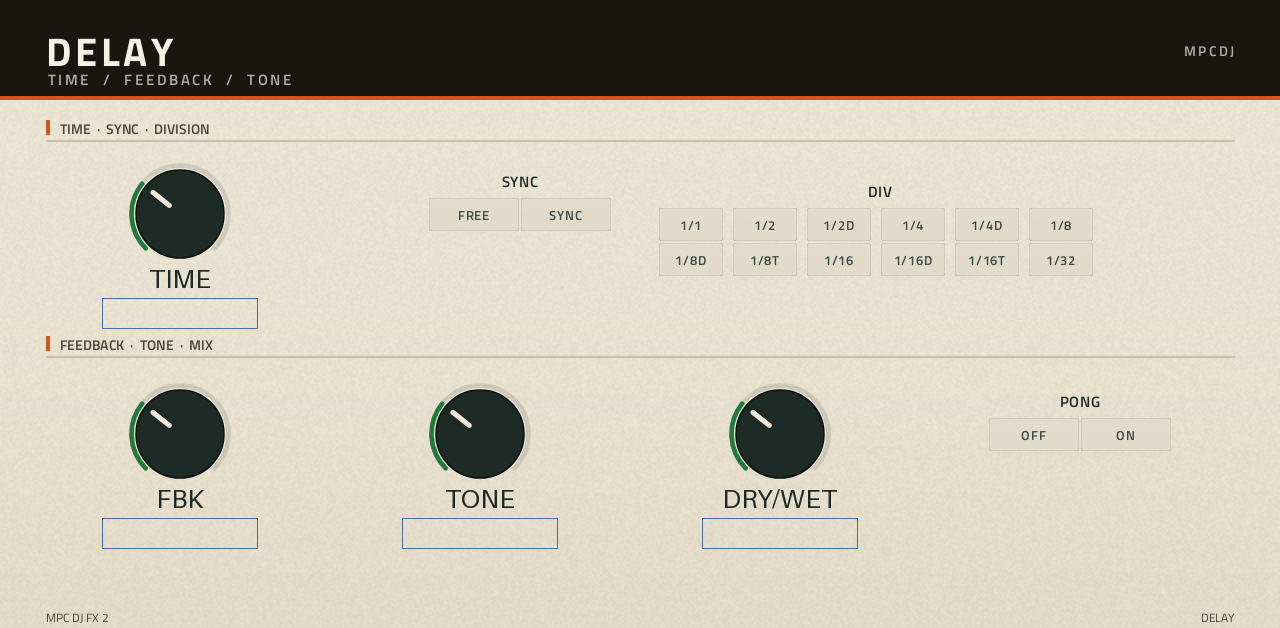
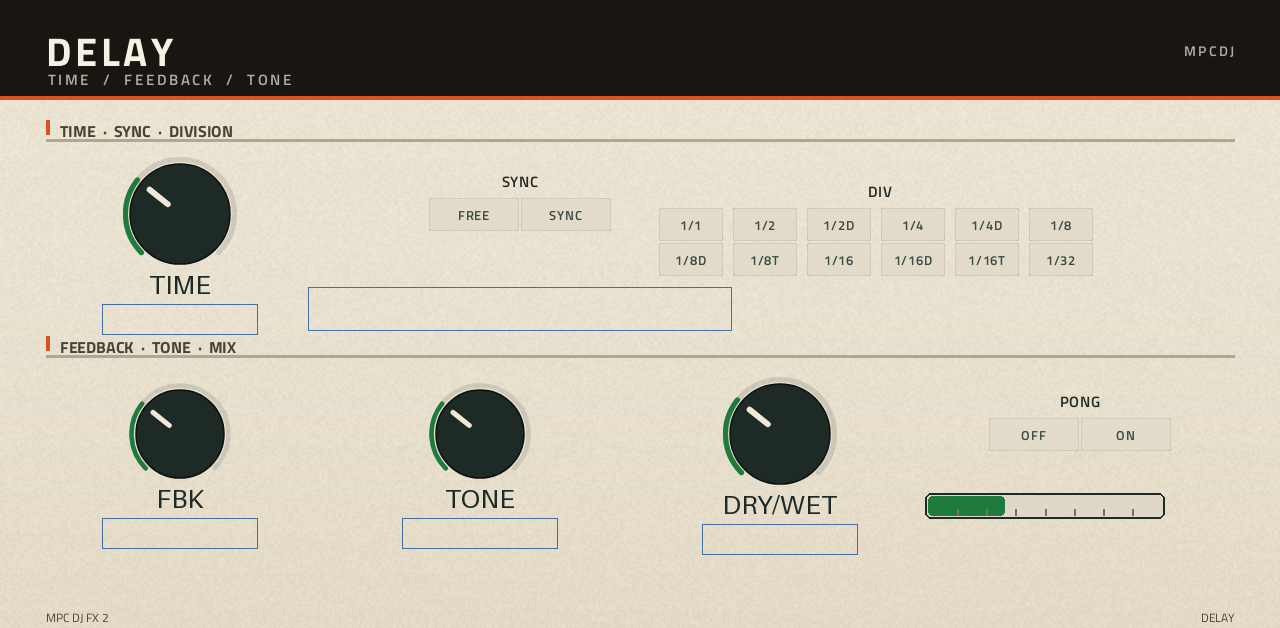
2.1.0: 20 Hz meters, 81-frame VU, live text, push reporting
- VU 24 -> 81 frames, published from a 20 Hz render tick
- stage meters for delay tail / reverb tail / repeat activity
- meters report via mpc_engine_changed() (~23 ms) instead of the 100 ms poll
- live text: delay time, output dBFS
- skin: stronger rules and captions, larger primary knobs

diff --git a/vst/src/djfx_engine.c b/vst/src/djfx_engine.c
@@ -28,7 +28,8 @@
 
 #define MAXFRAMES 128
 #define VALLEN 40
-#define VU_STEPS 24
+#define VU_STEPS 81   /* 81 frames = 0.6 dB per step on a 48 dB scale (was 24 = 2.09 dB) */
+#define MET_STEPS 41   /* per-page stage meters: 1.2 dB per step */
 #define VU_FLOOR_DB (-48.0f)
 
 static const char *const KEYS[] = {
@@ -41,7 +42,8 @@ static const char *const KEYS[] = {
     "fl_rate", "fl_depth", "fl_fbk", "fl_mix",
     "gr_rate", "gr_time", "gr_spray", "gr_mix",
     "mac_lo", "mac_mid", "mac_hi", "mac_lpf", "mac_glitch", "mac_verb", "mac_fade", "mac_fill",
-    "output_gain", "limiter", "panic", "vu", "mix"
+    "output_gain", "limiter", "panic", "vu", "mix",
+    "dly_tail", "verb_tail", "rep_act", "dly_show", "out_show"
 };
 #define NKEYS ((int)(sizeof KEYS / sizeof KEYS[0]))
 _Static_assert(sizeof KEYS / sizeof KEYS[0] == NPARAMS,
@@ -61,7 +63,8 @@ enum {
     P_FL_RATE, P_FL_DEPTH, P_FL_FBK, P_FL_MIX,
     P_GR_RATE, P_GR_TIME, P_GR_SPRAY, P_GR_MIX,
     P_MAC_LO, P_MAC_MID, P_MAC_HI, P_MAC_LPF, P_MAC_GLITCH, P_MAC_VERB, P_MAC_FADE, P_MAC_FILL,
-    P_OUTPUT_GAIN, P_LIMITER, P_PANIC, P_VU, P_MIX
+    P_OUTPUT_GAIN, P_LIMITER, P_PANIC, P_VU, P_MIX,
+    P_DLY_TAIL, P_VERB_TAIL, P_REP_ACT, P_DLY_SHOW, P_OUT_SHOW
 };
 
 typedef struct {
@@ -80,7 +83,11 @@ typedef struct {
     float out_gain;         /* linear */
     unsigned display_rev;   /* HAS_DISPLAY_REV */
     int   vu_step;          /* last reported VU step (-1 = never) */
+    int   met_step[3];      /* last reported stage steps: delay, verb, repeat (-1 = never) */
+    int   met_tick;         /* samples since the last 20 Hz meter tick */
+    unsigned long long pending;  /* meter keys waiting for mpc_engine_changed() */
     float vu_env;
+    float dly_env, verb_env, rep_env;
     int   panic_cd;         /* panic debounce, in samples */
     int   panic_state;      /* panic flush staged across blocks (0 = idle, 1..3 = stage) */
     char  val[NKEYS][VALLEN];
@@ -491,6 +498,7 @@ static void *create(const char *data_dir)
     c->mix = 0.35f;
     c->out_gain = 1.0f;
     c->vu_step = -1;
+    for (int k = 0; k < 3; k++) c->met_step[k] = -1;
     build_dsp(c);
     if (!dsp_ok(c)) { free_dsp(c); free(c); return NULL; }
     for (int i = 0; i < NKEYS; i++) {
@@ -541,20 +549,19 @@ static int get_param(void *inst, const char *key, char *buf, int buf_len)
         }
         return p;
     }
+    /* live text (params.json "display": "string"): polled every 100 ms, no numeric value */
+    if (!strcmp(key, "dly_show")) return get_param(c, "dly_time_display", buf, buf_len);
+    if (!strcmp(key, "out_show")) {
+        const float db = 20.0f * log10f(c->vu_env + 1e-6f);
+        snprintf(buf, (size_t)buf_len, "%+.1f dBFS", db);
+        return 1;
+    }
     const int i = key_idx(key);
     if (i < 0) {
         if (!strcmp(key, "display_rev")) {
-            /* the live VU is display-only: derive its step here (on the poll) and count it into
-             * display_rev so the host re-reads the value (DISPLAY_REV_NO_UPDATE: moved values only) */
-            int s = (int)lrintf((20.0f * log10f(c->vu_env + 1e-6f) - VU_FLOOR_DB)
-                                / (0.0f - VU_FLOOR_DB) * (float)(VU_STEPS - 1));
-            if (s < 0) s = 0;
-            if (s >= VU_STEPS) s = VU_STEPS - 1;
-            if (s != c->vu_step) {
-                c->vu_step = s;
-                snprintf(c->val[P_VU], VALLEN, "%d", s);
-                c->display_rev++;
-            }
+            /* the meters are published from the 20 Hz tick in process() (2026-10-26): deriving them
+             * here capped the needle at the host's 100 ms readout poll and coupled the number of
+             * frames to the poll. display_rev just counts what changed since the last poll. */
             snprintf(buf, (size_t)buf_len, "%u", c->display_rev);
             return 1;
         }
@@ -622,11 +629,29 @@ static void process(void *inst, const int16_t *in_lr, int16_t *out_lr, int frame
     iso_process(c->iso, c->l, c->r, frames);
     dub_filter_process(c->djf, c->l, c->r, frames);
     repeat_process(c->rep, c->l, c->r, frames);
+    float rep_pk = 0.0f;
+    for (int i = 0; i < frames; i++) {
+        const float a = fabsf(c->l[i]), b = fabsf(c->r[i]);
+        if (a > rep_pk) rep_pk = a;
+        if (b > rep_pk) rep_pk = b;
+    }
 
     /* wet path: delay (wet only) -> VERB high-pass -> reverb -> flanger */
     dub_delay_process(c->delay, c->l, c->r, c->w1, c->w2, frames);
+    float dly_pk = 0.0f;
+    for (int i = 0; i < frames; i++) {
+        const float a = fabsf(c->w1[i]), b = fabsf(c->w2[i]);
+        if (a > dly_pk) dly_pk = a;
+        if (b > dly_pk) dly_pk = b;
+    }
     dub_filter_process(c->vhf, c->w1, c->w2, frames);
     dub_reverb_process(c->rv, c->w1, c->w2, frames);
+    float verb_pk = 0.0f;
+    for (int i = 0; i < frames; i++) {
+        const float a = fabsf(c->w1[i]), b = fabsf(c->w2[i]);
+        if (a > verb_pk) verb_pk = a;
+        if (b > verb_pk) verb_pk = b;
+    }
     flanger_process(c->fl, c->w1, c->w2, frames);
     grain_process(c->gr, c->w1, c->w2, frames);
 
@@ -664,8 +689,36 @@ static void process(void *inst, const int16_t *in_lr, int16_t *out_lr, int frame
         out_lr[2 * i + 1] = (int16_t)b;
     }
 
-    /* master VU: peak with a slow release (sampled by the 100 ms display poll) */
-    c->vu_env = pk > c->vu_env ? pk : c->vu_env * 0.9995f;
+    /* master VU + stage meters: peak with a slow release */
+    c->vu_env   = pk      > c->vu_env   ? pk      : c->vu_env   * 0.9995f;
+    c->dly_env  = dly_pk  > c->dly_env  ? dly_pk  : c->dly_env  * 0.9995f;
+    c->verb_env = verb_pk > c->verb_env ? verb_pk : c->verb_env * 0.9995f;
+    c->rep_env  = rep_pk  > c->rep_env  ? rep_pk  : c->rep_env  * 0.9995f;
+
+    /* 20 Hz: publish VU + the three stage meters. The host re-reads a value when display_rev changed
+     * (DISPLAY_REV_NO_UPDATE), so one counter serves all four. */
+    c->met_tick += frames;
+    if (c->met_tick >= (int)(c->fs / 20.0f)) {
+        c->met_tick = 0;
+        struct { float env; int *step; int idx; int top; } m[4] = {
+            { c->vu_env,   &c->vu_step,      P_VU,        VU_STEPS  },
+            { c->dly_env,  &c->met_step[0],  P_DLY_TAIL,  MET_STEPS },
+            { c->verb_env, &c->met_step[1],  P_VERB_TAIL, MET_STEPS },
+            { c->rep_env,  &c->met_step[2],  P_REP_ACT,   MET_STEPS },
+        };
+        for (int k = 0; k < 4; k++) {
+            const int top = m[k].top;
+            int st = (int)lrintf((20.0f * log10f(m[k].env + 1e-6f) - VU_FLOOR_DB)
+                                 / (0.0f - VU_FLOOR_DB) * (float)(top - 1));
+            if (st < 0) st = 0;
+            if (st >= top) st = top - 1;
+            if (st != *m[k].step) {
+                *m[k].step = st;
+                snprintf(c->val[m[k].idx], VALLEN, "%d", st);
+                c->pending |= 1ull << m[k].idx;   /* wrapper reports it (engine.h hook), no 100 ms poll */
+            }
+        }
+    }
     if (c->panic_cd > 0) { c->panic_cd -= frames; if (c->panic_cd < 0) c->panic_cd = 0; }
 }
 
@@ -686,6 +739,24 @@ static void engine_reset(void *inst)
     if (!c) return;
     flush_tails(c);
     limiter_reset(c->lim);
+}
+
+/* engine.h's push hook: the wrapper asks once per block which keys the engine changed by itself and tells the
+ * host as it does for a MIDI CC (at most every 1024 frames per control = ~23 ms), which is the documented way to
+ * drive a filmstrip meter. Visibility matters: the build uses -fvisibility=hidden. */
+__attribute__((visibility("default")))
+int mpc_engine_changed(void *inst, char *key, int len)
+{
+    ctx_t *c = inst;
+    if (!c || !key || len <= 0) return 0;
+    for (int i = 0; i < NKEYS; i++) {
+        if (c->pending & (1ull << i)) {
+            c->pending &= ~(1ull << i);
+            snprintf(key, (size_t)len, "%s", KEYS[i]);
+            return 1;
+        }
+    }
+    return 0;
 }
 
 static const mpc_engine_t ENGINE = { create, destroy, midi, set_param, get_param, render, process,

diff --git a/vst/art/make_faceplate.py b/vst/art/make_faceplate.py
@@ -34,7 +34,7 @@ PAPER = (239, 232, 216)
 PAPER_EDGE = (226, 218, 198)
 INK = (25, 21, 17)
 INK_SOFT = (74, 66, 56)
-RULE = (200, 190, 170)
+RULE = (176, 166, 146)
 ACCENT = (217, 83, 30)
 CREAM = (246, 241, 229)
 
@@ -120,9 +120,9 @@ def section(d, box, caption, radius=10):
     A rounded frame was the first idea, but every control row starts close to the frame's top edge and the
     live knob names/plates then collide with it; a rule above the row never does."""
     x0, y0, x1, y1 = box[0], box[1] - Y_OFF, box[2], box[3] - Y_OFF
-    d.line([(x0, y0), (x1, y0)], fill=RULE, width=2)
+    d.line([(x0, y0), (x1, y0)], fill=RULE, width=3)
     if caption:
-        f = font("semi", 14)
+        f = font("bold", 16)
         d.text((x0 + 14, y0 - 22), caption.upper(), font=f, fill=INK_SOFT)
         d.rectangle([x0, y0 - 20, x0 + 3, y0 - 6], fill=ACCENT)
 
@@ -153,7 +153,7 @@ PAGES = {
     "dj": ("DJ", "FILTER  /  3-BAND ISOLATOR  /  MASTER", [
         ((46, 226, 1010, 430), "dj filter  \u00b7  isolator"),
         ((46, 442, 700, 700), "master"),
-    ], (866, 556, 1226, 640)),
+    ], (866, 540, 1226, 656)),
     "repeat": ("BEAT REPEAT", "GRID  /  GATE  /  CHANCE", [
         ((46, 236, 1234, 420), "grid  \u00b7  mode"),
         ((46, 442, 1234, 700), "gate  \u00b7  chance  \u00b7  repeats"),

diff --git a/vst/art/make_vu.py b/vst/art/make_vu.py
@@ -18,7 +18,7 @@ import os
 from PIL import Image, ImageDraw
 
 W, H = 304, 40
-STEPS = 24
+STEPS = 81
 BEZEL = 3
 TROUGH = (223, 216, 200, 255)   # paper trough (skin: ivory + ink, 2026-10-26)
 FRAME = (30, 42, 38, 255)       # ink bezel
@@ -51,15 +51,21 @@ def frame(step):
 
 
 def main():
+    global W, H, STEPS
     ap = argparse.ArgumentParser()
     ap.add_argument("-o", "--out", default="vst/art/vu")
+    ap.add_argument("--steps", type=int, default=STEPS)
+    ap.add_argument("--w", type=int, default=W)
+    ap.add_argument("--h", type=int, default=H)
+    ap.add_argument("--prefix", default="vu")
     ap.add_argument("-s", "--strip", default="vst/art/vu_strip.png",
                     help="filmstrip output: STEPS frames of WxH stacked down, minimum first")
     a = ap.parse_args()
+    STEPS, W, H = a.steps, a.w, a.h
     os.makedirs(a.out, exist_ok=True)
     frames = [frame(s) for s in range(STEPS)]
     for step, img in enumerate(frames):
-        img.save(os.path.join(a.out, "vu_%02d.png" % step))
+        img.save(os.path.join(a.out, "%s_%03d.png" % (a.prefix, step)))
     strip = Image.new("RGBA", (W, H * STEPS), (0, 0, 0, 0))
     for step, img in enumerate(frames):
         strip.paste(img, (0, step * H))
